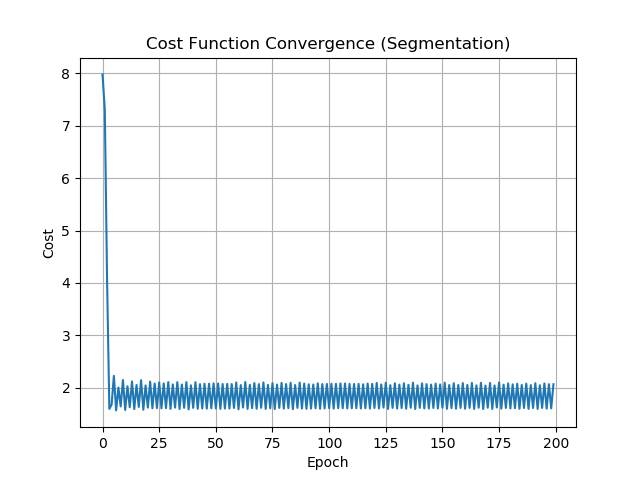
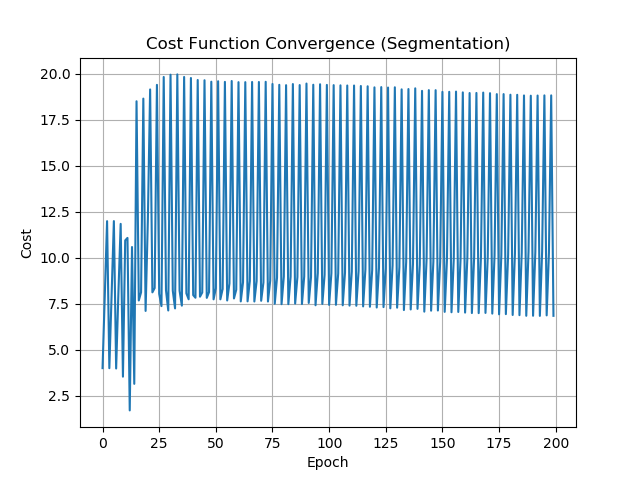
CT-213 LAB 07: NN is training but uneffective, cant do the first two simple tests

diff --git a/CT-213/07/lab7_ct213/neural_network.py b/CT-213/07/lab7_ct213/neural_network.py
@@ -27,10 +27,10 @@ class NeuralNetwork:
         self.alpha = alpha
         self.weights = [None] * 3
         self.biases = [None] * 3
-        self.weights[1] = 0.001 * np.matrix(np.random.randn(num_hiddens, num_inputs))   # Shape: (10, 2)
-        self.weights[2] = 0.001 * np.matrix(np.random.randn(num_outputs, num_hiddens))  # Shape: (1, 10)
-        self.biases[1] = np.zeros((num_hiddens, 1))     # Shape: (10, 1)
-        self.biases[2] = np.zeros((num_outputs, 1))     # Shape: (1, 1)
+        self.weights[1] = 0.001 * np.matrix(np.random.randn(num_hiddens, num_inputs))   
+        self.weights[2] = 0.001 * np.matrix(np.random.randn(num_outputs, num_hiddens))  
+        self.biases[1] = np.zeros((num_hiddens, 1))     
+        self.biases[2] = np.zeros((num_outputs, 1))     
 
     def forward_propagation(self, input):
         """
@@ -106,21 +106,23 @@ class NeuralNetwork:
         for i in range(num_cases):
             z, a = self.forward_propagation(inputs[i])
             outputs[i] = a[-1]
-            
+        
         y = np.array(expected_outputs)
         yhat = np.array(outputs)
-        
-        for i in range(num_cases):
-            y_error = np.array(yhat[i] - y[i])       
-            biases_gradient[2] += y_error
-            weights_gradient[2] += a[1]*np.transpose(y_error)
-        
-            sum_factor = np.zeros((len(z[1]), 1)) 
-            for k in range (len(z[1])):
-                sum_factor[k] = np.array(self.weights[2])[0][k]*np.asscalar(yhat[i] - y[i])*np.asscalar(sigmoid_derivative(np.array(z[1])[k]))
+        deltas = [0, 0, 0]
 
-            biases_gradient[1] += sum_factor
-            weights_gradient[1] += sum_factor*np.transpose(a[0])
+        for i in range(num_cases):
+            deltas[2] = np.array(yhat[i] - y[i])       
+            biases_gradient[2] += deltas[2]
+            weights_gradient[2] += deltas[2]*np.transpose(a[1])
+        
+            deltas[1] = np.zeros((self.num_hiddens, 1))
+            for k in range (len(biases_gradient[2])):
+                for j in range (len(z[1])):
+                    deltas[1][j] += np.asscalar(np.sum(self.weights[1], axis=1)[j]*deltas[2][k]*sigmoid_derivative(z[1][j]))
+            
+            biases_gradient[1] += deltas[1]
+            weights_gradient[1] += deltas[1]*np.transpose(a[0]) 
 
         weights_gradient[1] /= num_cases
         weights_gradient[2] /= num_cases

diff --git a/CT-213/07/lab7_ct213/test_neural_network.py b/CT-213/07/lab7_ct213/test_neural_network.py
@@ -6,8 +6,8 @@ from utils import sum_gt_zero, xor
 
 num_cases = 200  # number of auto-generated cases
 num_epochs = 1000  # number of epochs for training
-classification_function = sum_gt_zero  # selects sum_gt_zero as the classification function
-# classification_function = xor  # selects xor as the classification function
+# classification_function = sum_gt_zero  # selects sum_gt_zero as the classification function
+classification_function = xor  # selects xor as the classification function
 # Figure format used for saving figures
 fig_format = 'png'
 # fig_format = 'svg'
